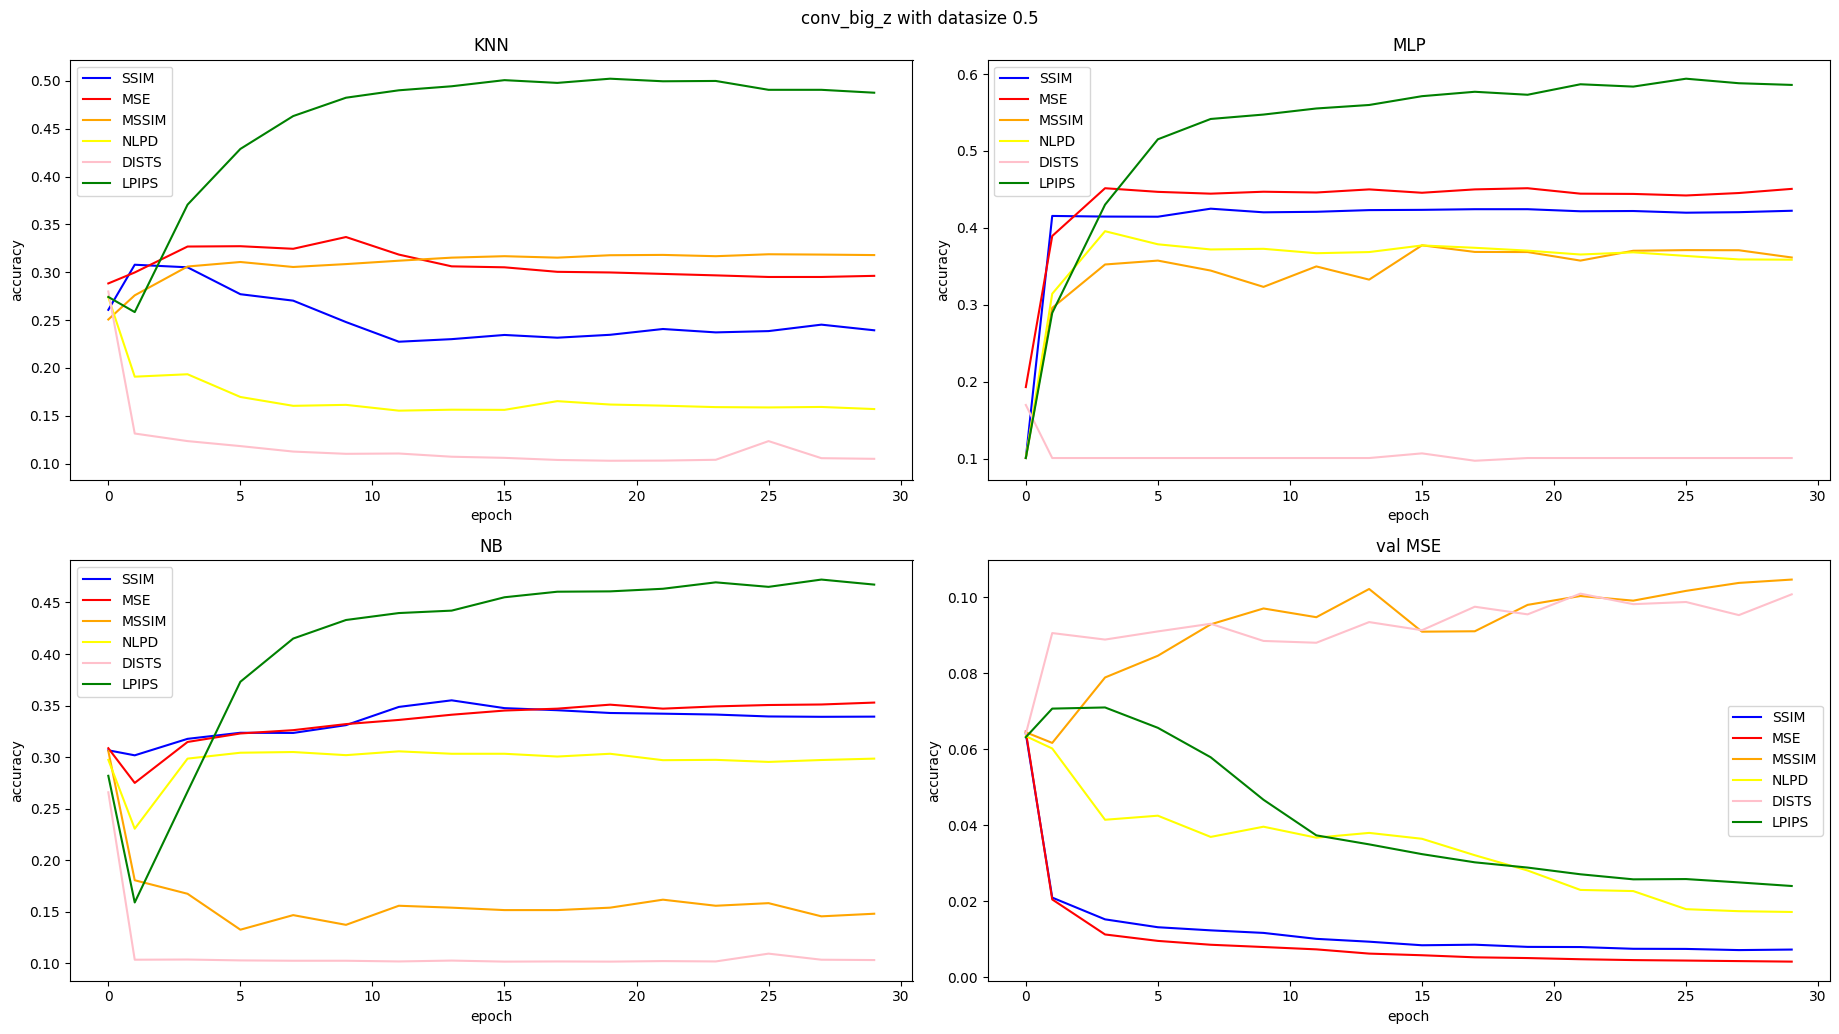
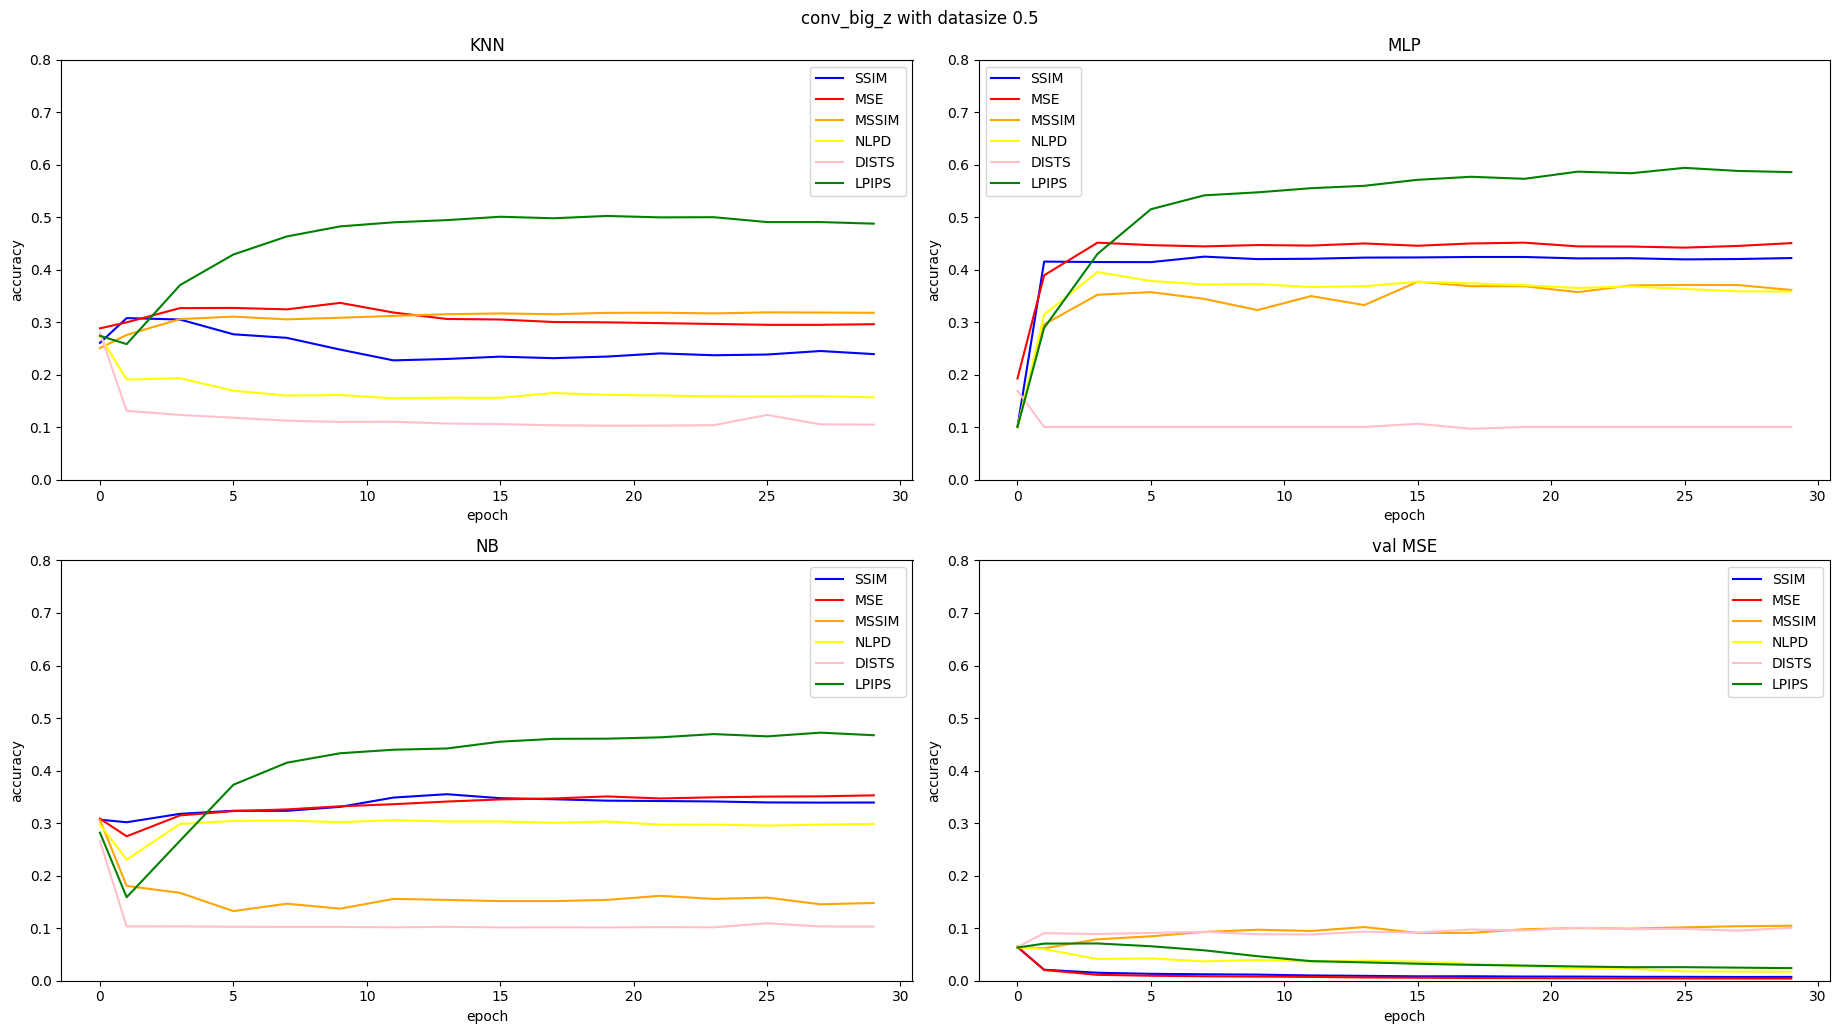
plots

diff --git a/plots/plot_training_runs.py b/plots/plot_training_runs.py
@@ -64,7 +64,10 @@ for dataset, networks in tqdm(all_results.items()):
                 axs[v_num, plot_num].legend()
                 axs[v_num, plot_num].set_xlabel('epoch')
                 axs[v_num, plot_num].set_ylabel('accuracy')
-                # axs[v_num, plot_num].set_ylim([0, 0.8])
+                if 'IMAGENET' in dataset:
+                    axs[v_num, plot_num].set_ylim([0, 0.1])
+                else:
+                    axs[v_num, plot_num].set_ylim([0, 0.8])
 
                 plot_num += 1
                 if plot_num == h_plots:
